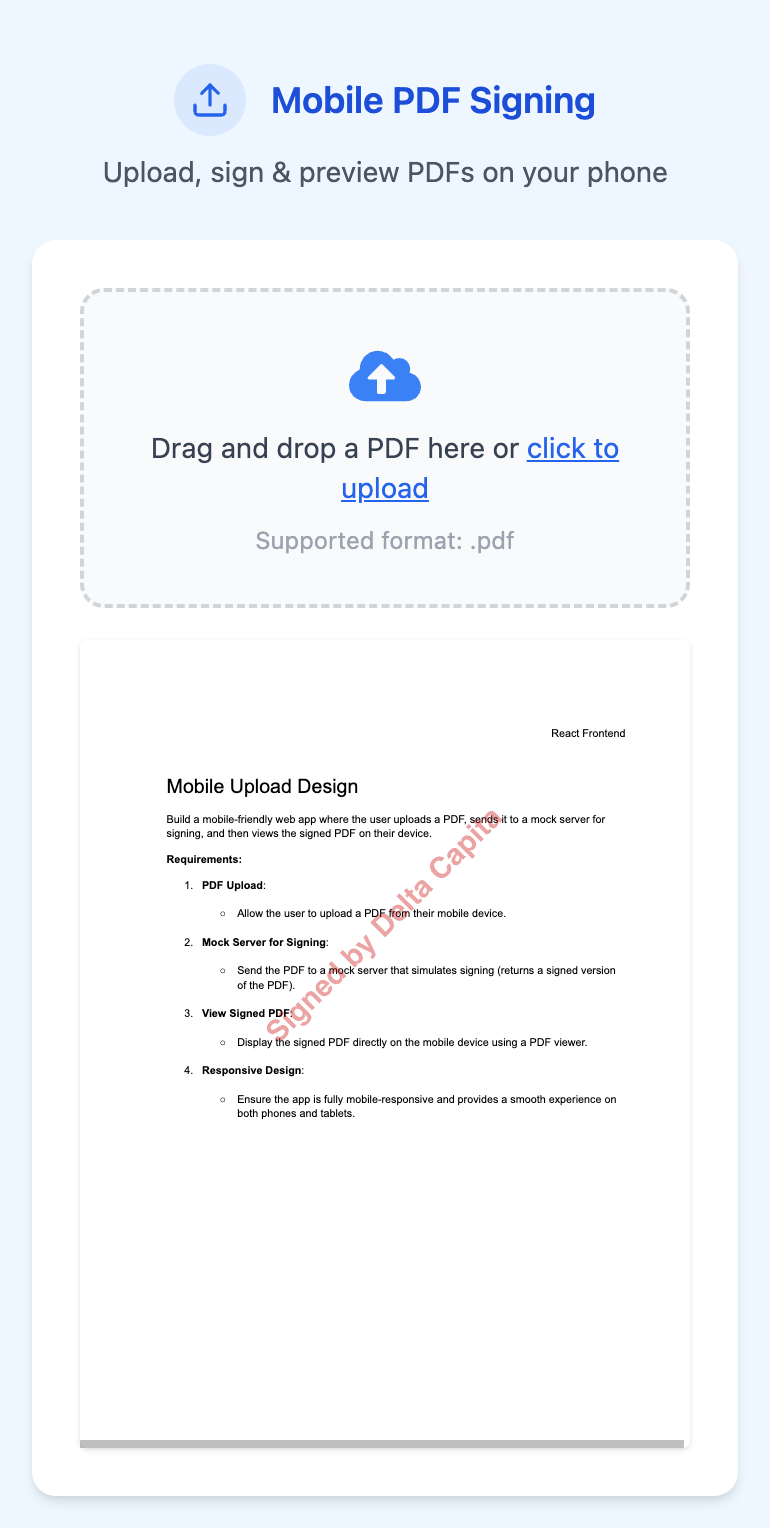
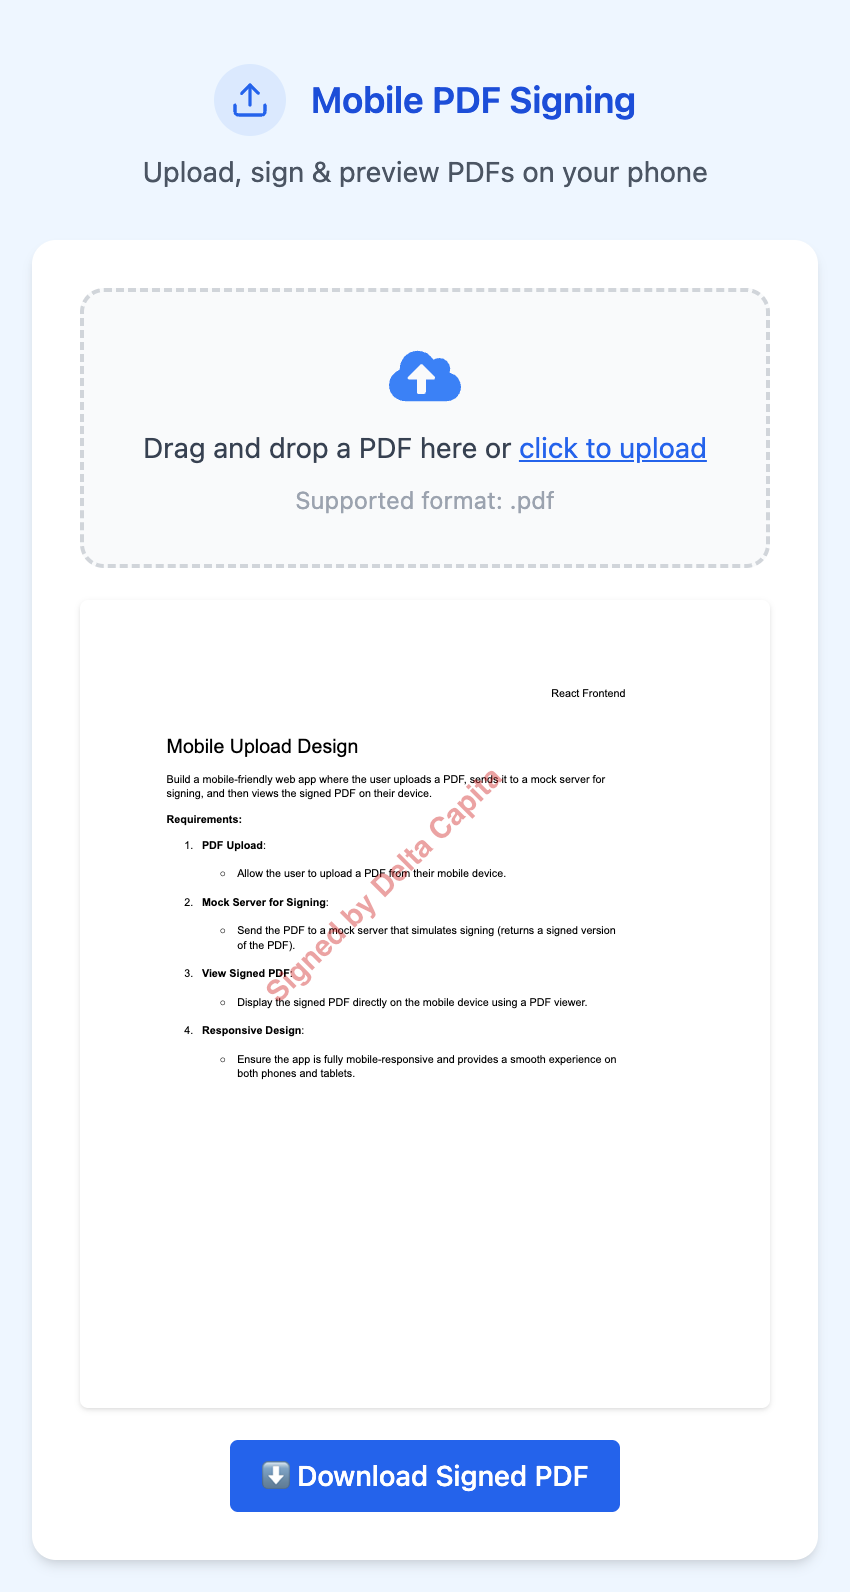
feat: show download button after successful PDF upload

diff --git a/src/App.tsx b/src/App.tsx
@@ -93,6 +93,18 @@ function App() {
 				<div className="bg-white p-6 rounded-xl shadow-md">
 					<PdfUpload onUpload={handleUpload} /> {/* Upload component */}
 					{pdfUrl && <PdfViewer fileUrl={pdfUrl} />} {/* Preview component */}
+					{/* Download button - only shown after successful upload */}
+					{pdfUrl && !serverError && (
+						<div className="mt-4 text-center">
+							<a
+								href={pdfUrl}
+								download="signed-document.pdf"
+								className="inline-block px-4 py-2 text-sm font-medium text-white bg-blue-600 rounded hover:bg-blue-700 transition"
+							>
+								⬇ Download Signed PDF
+							</a>
+						</div>
+					)}
 				</div>
 			</div>
 
